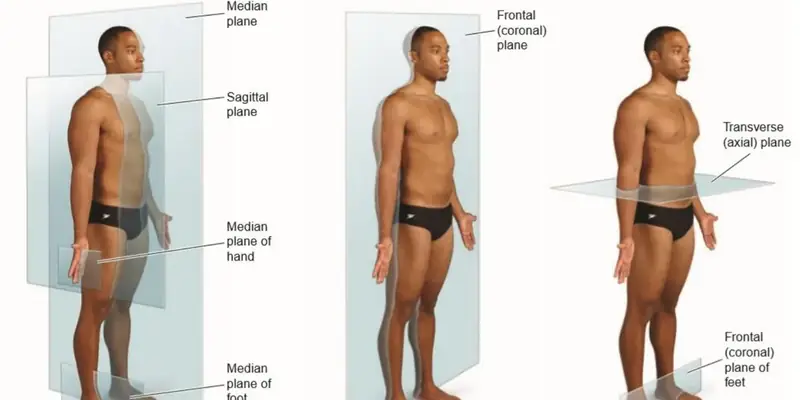
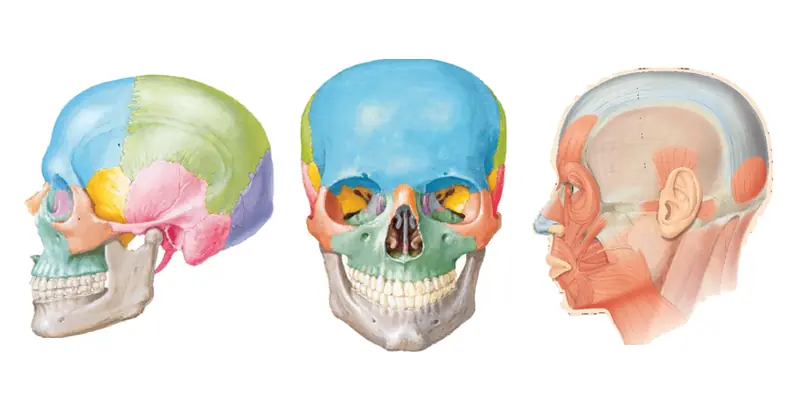
Anatomy cover: skulls and facial muscles instead of the planes figure
Three Netter figures from the anatomy ebook, lifted off their labels and
leader lines (largest-shape isolation, thin lines filled from their
surroundings): the colour-coded skull from the side and the front, and
the muscles of facial expression. 16 KB.

Claude-Session: https://claude.ai/code/session_01UwXnbAw7yK1PnUERCsx1SF

diff --git a/src/lib/subjectCovers.ts b/src/lib/subjectCovers.ts
@@ -5,7 +5,7 @@ const COVERS: Readonly<Record<string, string>> = {
   "1.1/biochem": "50% 70%",
   "1.1/histology": "50% 45%",
   "1.1/physiology": "50% 50%",
-  "1.2/anatomy": "50% 12%",
+  "1.2/anatomy": "50% 45%",
   "1.2/histology": "50% 30%",
   "1.2/physiology": "50% 30%",
 };
